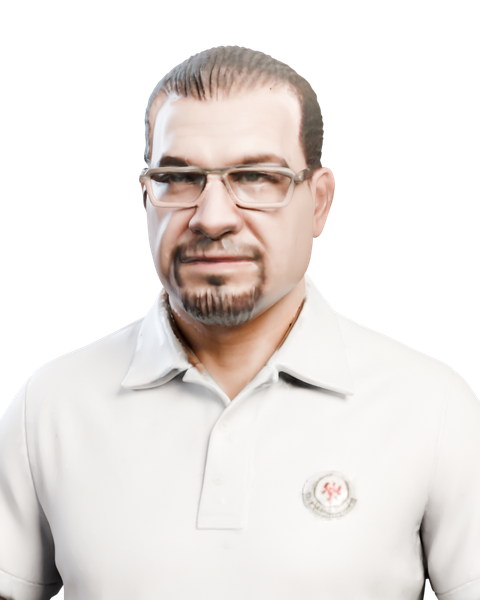
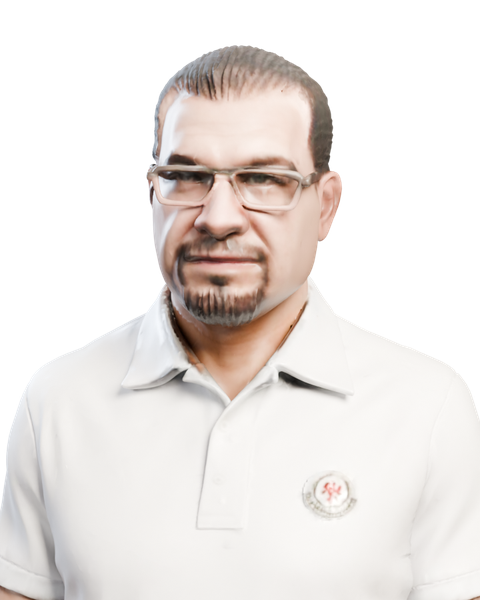
Marco posed: proximity-skinned scan with arms relaxed (body/portrait), hand at pocket (hero), head tilt; happy/angry faces differ (smile lift + chin up + warm key / knit brows + head down + cool key)
Claude-Session: https://claude.ai/code/session_01NPxWDMmDr35mH1YXpri3Ec

Changed region(s): [[0.2812, 0.06, 0.7188, 0.57], [0.0, 0.72, 0.1562, 1.0], [0.8438, 0.81, 1.0, 1.0]]

diff --git a/tools/marco_rig.py b/tools/marco_rig.py
@@ -1,0 +1,124 @@
+"""Proximity-weighted skinning for the Marco scan (pose helper used by tools/marco_glb.py)."""
+import math
+import numpy as np
+
+
+def _rot(a, b):
+    """Rotation matrix turning direction a onto direction b."""
+    a = a / np.linalg.norm(a); b = b / np.linalg.norm(b)
+    v = np.cross(a, b); c = float(np.dot(a, b)); s = np.linalg.norm(v)
+    if s < 1e-9:
+        return np.eye(3)
+    k = np.array([[0, -v[2], v[1]], [v[2], 0, -v[0]], [-v[1], v[0], 0]]) / s
+    ang = math.atan2(s, c)
+    return np.eye(3) + math.sin(ang) * k + (1 - math.cos(ang)) * k @ k
+
+
+def _axis_rot(axis, deg):
+    axis = np.asarray(axis, float); axis /= np.linalg.norm(axis)
+    a = math.radians(deg)
+    k = np.array([[0, -axis[2], axis[1]], [axis[2], 0, -axis[0]], [-axis[1], axis[0], 0]])
+    return np.eye(3) + math.sin(a) * k + (1 - math.cos(a)) * k @ k
+
+
+def _ss(e0, e1, x):
+    t = np.clip((x - e0) / (e1 - e0), 0, 1)
+    return t * t * (3 - 2 * t)
+
+
+def _seg(p, a, b):
+    d = b - a; L = np.linalg.norm(d); u = d / L
+    t = (p - a) @ u
+    q = a + np.clip(t, 0, L)[:, None] * u
+    return t, np.linalg.norm(p - q, axis=1)
+
+
+# joints of the scan's A-pose (metres, figure 1.78 m, facing -Y); side s=+1 is +X
+def joints(s):
+    return (np.array([0.20 * s, 0.055, 1.42]), np.array([0.335 * s, 0.035, 1.10]),
+            np.array([0.43 * s, -0.075, 0.90]), np.array([0.45 * s, -0.10, 0.77]))
+
+
+def arm_weights(co, s):
+    S, E, W, T = joints(s)
+    tu, ru = _seg(co, S, E); tf, rf = _seg(co, E, W); th, rh = _seg(co, W, T)
+    r = np.minimum(np.minimum(ru, rf), rh)
+    side = co[:, 0] * s
+    w_arm = _ss(-0.05, 0.03, tu) * (1 - _ss(0.075, 0.105, r)) * (side > 0.12)
+    w_f = _ss(-0.03, 0.03, tf)
+    w_h = _ss(-0.015, 0.02, th)
+    return w_arm, w_f, w_h
+
+
+def pose_arm(co, s, up_dir, fore_dir, hand_dir=None, twist=0.0):
+    """Returns the arm chain's posed positions for every vertex and the arm weight."""
+    S, E, W, T = joints(s)
+    w_arm, w_f, w_h = arm_weights(co, s)
+    Ru = _rot(E - S, np.asarray(up_dir, float))
+    E2 = Ru @ (E - S) + S
+    W1 = Ru @ (W - S) + S
+    Rf = _rot(W1 - E2, np.asarray(fore_dir, float))
+    if twist:
+        Rf = _axis_rot(fore_dir, twist) @ Rf
+    W2 = Rf @ (W1 - E2) + E2
+    T1 = Rf @ (Ru @ (T - S) + S - E2) + E2
+    Rh = _rot(T1 - W2, np.asarray(hand_dir, float)) if hand_dir is not None else np.eye(3)
+    pu = (co - S) @ Ru.T + S
+    pf = (pu - E2) @ Rf.T + E2
+    ph = (pf - W2) @ Rh.T + W2
+    p = pu * (1 - w_f)[:, None] + (pf * (1 - w_h)[:, None] + ph * w_h[:, None]) * w_f[:, None]
+    return p, w_arm
+
+
+def pose(co, arms, head_pitch=0.0, head_roll=0.0, head_yaw=0.0):
+    """arms: {side: (up_dir, fore_dir, hand_dir)}; head angles in degrees (pitch + = chin up)."""
+    out = co.copy()
+    # head and neck: a neck pivot with weight ramping over the neck
+    P = np.array([0.0, 0.01, 1.47])
+    R = _axis_rot((0, 0, 1), head_yaw) @ _axis_rot((0, 1, 0), head_roll) @ _axis_rot((1, 0, 0), -head_pitch)
+    wh = _ss(1.44, 1.53, co[:, 2]) * (np.abs(co[:, 0]) < 0.17)
+    ph = (co - P) @ R.T + P
+    out = out * (1 - wh)[:, None] + ph * wh[:, None]
+    for s, dirs in arms.items():
+        p, w = pose_arm(co, s, *dirs)
+        out = out * (1 - w)[:, None] + p * w[:, None]
+    return out
+
+
+def relaxed(s, out_deg=8.0):
+    a = math.radians(out_deg)
+    return ((math.sin(a) * s, -0.05, -math.cos(a)),      # upper arm hangs nearly straight down
+            (0.03 * s, -0.30, -0.95),                     # forearm a little forward
+            (0.0 * s, -0.22, -0.97))
+
+
+def pocket(s):
+    """Hand tucked in the front trouser pocket: elbow out and back, forearm angled in to the hip."""
+    a = math.radians(18)
+    return ((math.sin(a) * s, 0.34, -math.cos(a)),
+            (-0.30 * s, -0.50, -0.81),
+            (-0.22 * s, 0.25, -0.94))
+
+
+def expression(co, mood):
+    """Small local deforms on the face (before the head pose): angry lowers and knits the brows, happy lifts
+    the mouth corners and cheeks."""
+    out = co.copy()
+    front = _ss(-0.10, -0.13, co[:, 1])       # front of the face only
+    x, z = co[:, 0], co[:, 2]
+    if mood == "angry":
+        band = _ss(1.652, 1.662, z) * (1 - _ss(1.69, 1.715, z))
+        inner = 1 - _ss(0.0, 0.055, np.abs(x))
+        w = band * front * (1 - _ss(0.06, 0.075, np.abs(x)))
+        out[:, 2] -= w * (0.0025 + 0.005 * inner)
+        out[:, 0] -= w * np.sign(x) * 0.0025 * inner
+        out[:, 1] -= w * 0.0015 * inner        # the knot of the frown pushes forward
+    elif mood == "happy":
+        for s in (1, -1):
+            d = np.sqrt(((x - 0.026 * s) / 0.016) ** 2 + ((z - 1.552) / 0.012) ** 2)
+            w = (1 - _ss(0.3, 1.0, d)) * front
+            out[:, 2] += w * 0.004
+            out[:, 0] += w * s * 0.0012
+            c = np.sqrt(((x - 0.04 * s) / 0.022) ** 2 + ((z - 1.585) / 0.018) ** 2)
+            out[:, 1] -= (1 - _ss(0.3, 1.0, c)) * front * 0.0015   # cheeks lift
+    return out

diff --git a/tools/marco_glb.py b/tools/marco_glb.py
@@ -1,7 +1,7 @@
 """Marco from his 3D model (Faisal's Tripo scan, /mnt/project-files/human+figure+3d+model.glb).
 
 The GLB is a Tripo turnaround sheet: three copies of the full standing figure side by side along X (front at
-x < -0.145, profile in the middle, three-quarter on the right), 0.63 m tall, one textured mesh, no rig. We keep the
+x < -0.145, profile in the middle, three-quarter on the right), 0.63 m tall, one textured mesh, no rig (tools/marco_rig.py skins and poses it). We keep the
 front copy, scale it to 1.78 m, and render every Marco picture from it (body, hero, portrait, faces, dialogue).
 
 Steps:
@@ -20,7 +20,11 @@ import os
 import sys
 
 import bpy
+import numpy as np
 from mathutils import Vector
+
+sys.path.insert(0, os.path.dirname(os.path.abspath(__file__)))
+import marco_rig  # noqa: E402  proximity-weighted skinning: arms down / hand at the pocket, head tilt, brows, smile
 
 GLB = "/mnt/project-files/human+figure+3d+model.glb"
 OUT = sys.argv[1]
@@ -46,8 +50,24 @@ bm.free()
 ob.location = (0, 0, 0)
 dec = ob.modifiers.new("dec", "DECIMATE")
 dec.ratio = 0.35
+bpy.context.view_layer.objects.active = ob
+bpy.ops.object.modifier_apply(modifier="dec")
 for p in ob.data.polygons:
     p.use_smooth = True
+_BASE = np.empty(len(ob.data.vertices) * 3)
+ob.data.vertices.foreach_get("co", _BASE)
+_BASE = _BASE.reshape(-1, 3)
+
+
+def set_pose(arms, mood="neutral", **head):
+    """Poses the scan from its A-pose: arms {side: directions} (marco_rig.relaxed / pocket), mood, head angles."""
+    co = marco_rig.pose(marco_rig.expression(_BASE, mood), arms, **head)
+    ob.data.vertices.foreach_set("co", co.ravel())
+    ob.data.update()
+
+
+RELAXED = {1: marco_rig.relaxed(1), -1: marco_rig.relaxed(-1)}
+HERO = {1: marco_rig.pocket(1), -1: marco_rig.relaxed(-1)}
 sc = bpy.context.scene
 sc.render.engine = "CYCLES"
 sc.cycles.device = "CPU"
@@ -106,12 +126,21 @@ sun.energy, sun.color, sun.angle = 1.6, (1.0, 0.9, 0.76), math.radians(3)
 so = bpy.data.objects.new("sun", sun)
 so.rotation_euler = (math.radians(40), 0, math.radians(-150))
 sc.collection.objects.link(so)
-# full body: eye-level-ish camera, slight three-quarter (people3d.py's framing)
+# full body: eye-level-ish camera, slight three-quarter (people3d.py's framing); arms relaxed at his sides
+set_pose(RELAXED, head_roll=2.5)
 shot("marco_body.png", (680, 1100), 2.05, 0.93, 13, ortho_up=0.35)
 ground.hide_render = True
-# hero: head to mid-thigh, slight three-quarter
+# hero: head to mid-thigh, slight three-quarter, one hand at his pocket, head a touch tilted
+set_pose(HERO, head_roll=3.5, head_pitch=1.5)
 shot("marco_hero.png", (1100, 1500), 1.32, TOP + 0.03 - 0.66, 15)
 # portrait: head and shoulders, face centred, same span as people3d.py portraits
+set_pose(RELAXED, head_roll=2.5)
 shot("marco_portrait.png", (720, 900), 0.62, TOP + 0.05 - 0.31, 10)
-# face: the head (the scan has no rig, so all three moods use this render)
-shot("marco_face_neutral.png", (384, 384), 0.34, TOP - 0.13, 10)
+# faces: neutral; happy = chin up, mouth corners lifted, warmer key; angry = brows down and knit, head down, cooler key
+key = [o for o in sc.objects if o.type == "LIGHT" and o.data.type == "AREA"][0]
+for mood, head, col, energy in (("neutral", dict(head_roll=2.5), (1.0, 0.9, 0.76), 1250),
+                                ("happy", dict(head_roll=4.0, head_pitch=5.0), (1.0, 0.84, 0.64), 1400),
+                                ("angry", dict(head_roll=-1.0, head_pitch=-7.0, head_yaw=-3.0), (0.9, 0.9, 0.95), 1100)):
+    set_pose(RELAXED, mood, **head)
+    key.data.color, key.data.energy = col, energy
+    shot("marco_face_%s.png" % mood, (384, 384), 0.34, TOP - 0.13 - (0.01 if mood == "angry" else 0.0), 10)
